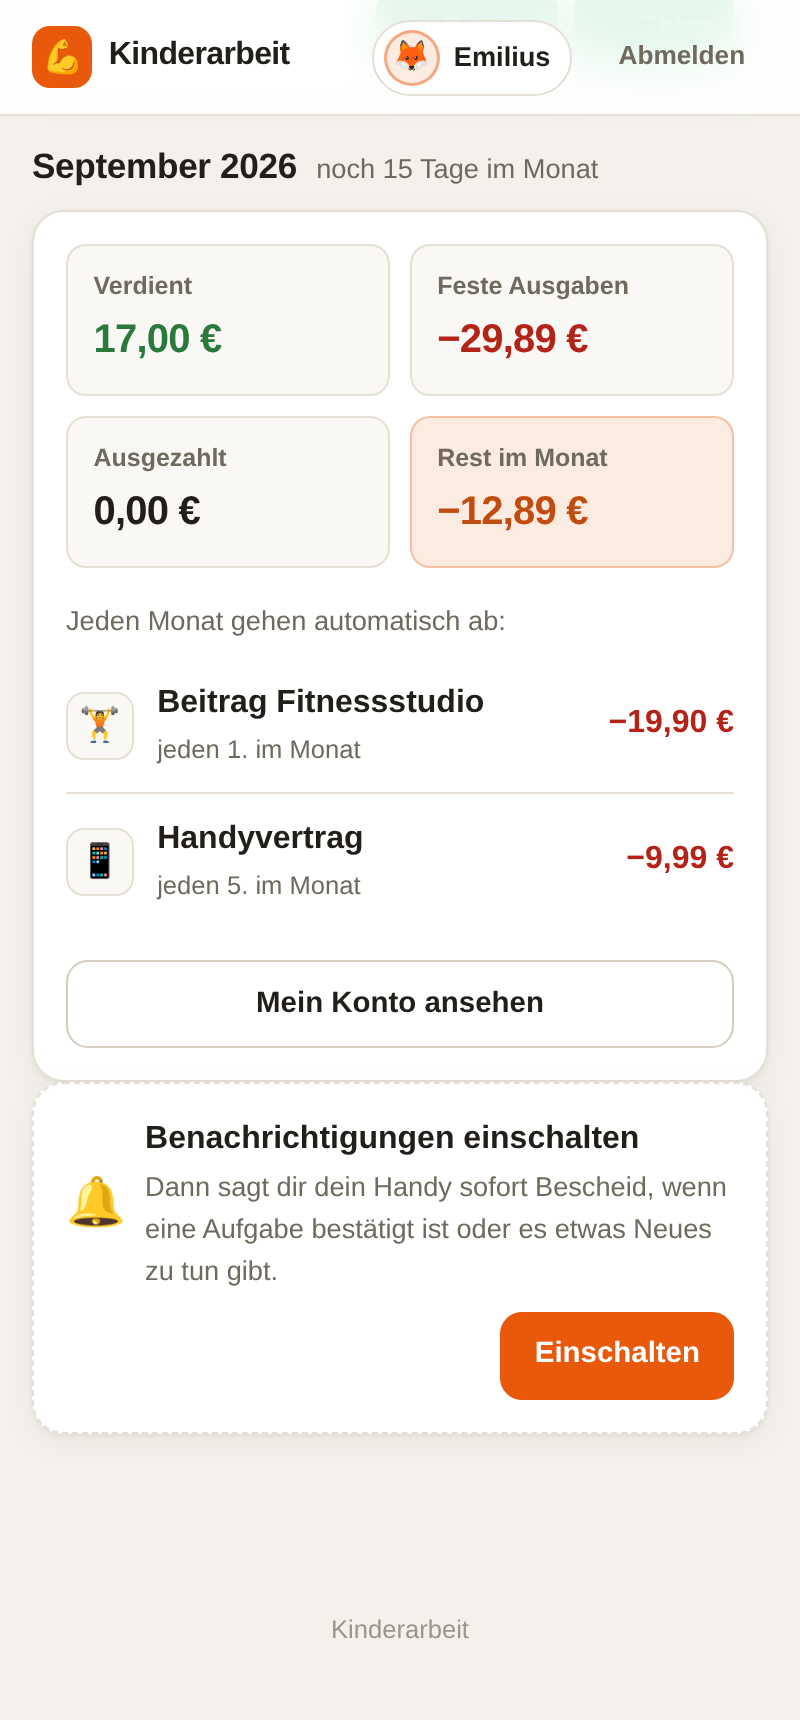
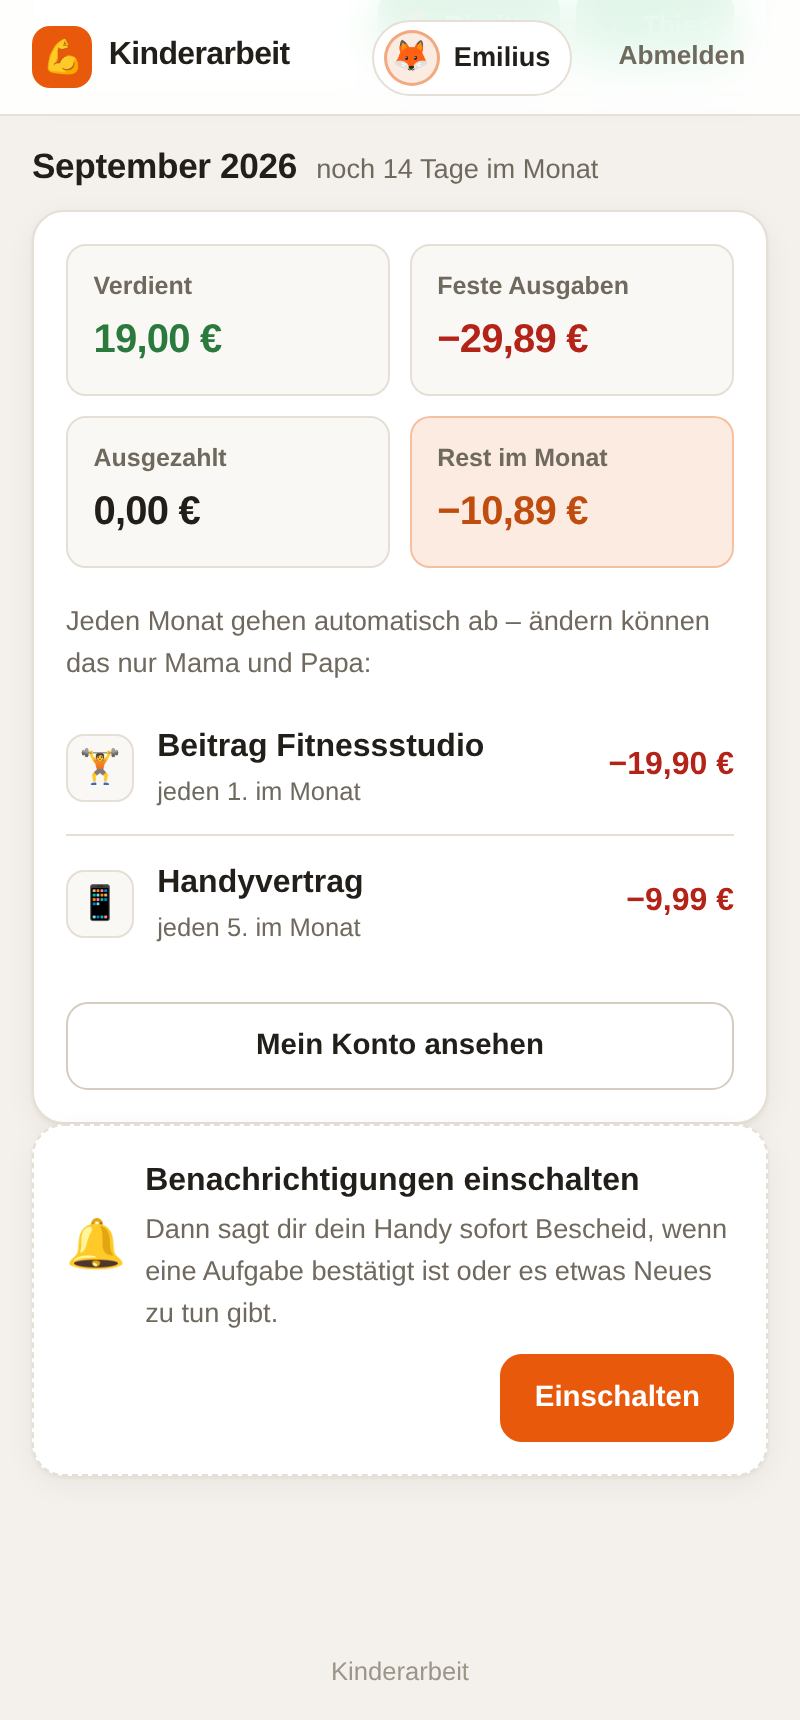
Kinder sehen ihre festen Ausgaben, ohne sie ändern zu können
Auf der Startseite standen sie schon, auf "Mein Konto" aber nur als Summe in
einer Kachel - und genau dort schaut man nach, wofür das Geld weggeht. Jetzt
steht dort ein eigener Abschnitt mit Symbol, Titel, Buchungstag und Betrag,
dazu die Monatssumme. Ändern lässt sich nichts; ein Satz sagt, dass das nur
Mama und Papa können.

Dabei fiel auf, dass beim Auflisten der Endmonat gar nicht beachtet wurde:
Expenses::all(..., true) und monthlyTotal(s) filterten nur auf is_active. Eine
ausgelaufene Ausgabe stand damit beim Kind weiter als laufende Belastung da,
obwohl Billing::dueMonths() sie längst nicht mehr abbucht - und sie ging auch
in die Monatssumme der Eltern ein. Beides zählt jetzt nur noch, was wirklich
läuft. Die Eltern sehen unter "Ausgaben" weiterhin alles, denn sie verwalten es.

Eine Ausgabe, die erst später beginnt, steht mit "erst ab ..." in der Liste und
zählt noch nicht zur Summe - sonst behauptete die Zahl mehr, als diesen Monat
stimmt.

Geprüft: sieben neue Selbsttests für laufend/ausgelaufen/künftig, dazu ein
Ablauftest über HTTP, der als Kind auf ausgabe-save und ausgabe-aktion schießt
und nachweist, dass sich nichts ändert. Die Bilder der README sind neu
aufgenommen.

diff --git a/app/Repo/Expenses.php b/app/Repo/Expenses.php
@@ -21,7 +21,15 @@ final class Expenses
         return $stmt->fetch() ?: null;
     }
 
-    public static function all(?int $childId = null, bool $onlyActive = false): array
+    /**
+     * Feste Ausgaben auflisten.
+     *
+     * $onlyRunning laesst weg, was zurzeit nicht mehr laeuft: pausierte und
+     * solche, deren Endmonat vorbei ist. Ohne die zweite Bedingung stuende
+     * eine ausgelaufene Ausgabe beim Kind weiter als laufende Belastung da -
+     * Billing::run() bucht sie laengst nicht mehr ab.
+     */
+    public static function all(?int $childId = null, bool $onlyRunning = false): array
     {
         $sql = 'SELECT e.*, u.name AS child_name, u.emoji AS child_emoji, u.color AS child_color
                   FROM expenses e
@@ -33,8 +41,9 @@ final class Expenses
             $sql .= ' AND e.child_id = :child';
             $params['child'] = $childId;
         }
-        if ($onlyActive) {
-            $sql .= ' AND e.is_active = 1';
+        if ($onlyRunning) {
+            $sql .= ' AND e.is_active = 1 AND (e.end_month IS NULL OR e.end_month >= :monat)';
+            $params['monat'] = current_month();
         }
         $sql .= ' ORDER BY e.is_active DESC, u.sort_order, e.day_of_month, e.title';
 
@@ -43,23 +52,29 @@ final class Expenses
         return $stmt->fetchAll();
     }
 
-    /** Summe der aktiven monatlichen Ausgaben eines Kindes. */
+    /** Summe der monatlichen Belastung eines Kindes - nur was noch laeuft. */
     public static function monthlyTotal(int $childId): int
     {
         $stmt = Database::pdo()->prepare(
-            'SELECT COALESCE(SUM(amount_cents), 0) FROM expenses WHERE child_id = :child AND is_active = 1'
+            'SELECT COALESCE(SUM(amount_cents), 0) FROM expenses
+              WHERE child_id = :child AND is_active = 1
+                AND (end_month IS NULL OR end_month >= :monat)'
         );
-        $stmt->execute(['child' => $childId]);
+        $stmt->execute(['child' => $childId, 'monat' => current_month()]);
         return (int)$stmt->fetchColumn();
     }
 
     /** Monatliche Belastung aller Kinder als id => Cent. */
     public static function monthlyTotals(): array
     {
-        $rows = Database::pdo()->query(
+        $stmt = Database::pdo()->prepare(
             'SELECT child_id, COALESCE(SUM(amount_cents), 0) AS total
-               FROM expenses WHERE is_active = 1 GROUP BY child_id'
-        )->fetchAll();
+               FROM expenses
+              WHERE is_active = 1 AND (end_month IS NULL OR end_month >= :monat)
+              GROUP BY child_id'
+        );
+        $stmt->execute(['monat' => current_month()]);
+        $rows = $stmt->fetchAll();
 
         $totals = [];
         foreach ($rows as $row) {

diff --git a/bin/selftest.php b/bin/selftest.php
@@ -143,6 +143,51 @@ check(
 
 Expenses::setActive($expenseId, false);
 check('Pausierte Ausgabe bucht nicht', Billing::run(true), 0);
+check('Pausierte zaehlt nicht mehr mit', Expenses::monthlyTotal($childId), 0);
+Expenses::setActive($expenseId, true);
+
+echo "\nWas die Kinder als laufend sehen\n";
+
+// Billing::run() hoert beim Endmonat auf. Was die Kinder angezeigt bekommen,
+// muss dasselbe sagen - sonst stuende dort eine Belastung, die es nicht gibt.
+$laufend = static fn (): array => array_column(Expenses::all($childId, true), 'title');
+
+$abgelaufen = Expenses::create([
+    'child_id'     => $childId,
+    'title'        => 'Schwimmkurs',
+    'amount_cents' => 800,
+    'day_of_month' => 10,
+    'start_month'  => month_shift(current_month(), -4),
+    'end_month'    => month_shift(current_month(), -1),
+    'created_by'   => (int)$thies['id'],
+]);
+check('Ausgelaufene taucht nicht auf',  in_array('Schwimmkurs', $laufend(), true), false);
+check('Und zaehlt nicht zur Belastung', Expenses::monthlyTotal($childId), 1990);
+check('Auch nicht in der Gesamtliste',  Expenses::monthlyTotals()[$childId] ?? 0, 1990);
+check('Die Eltern sehen sie weiterhin',
+      in_array('Schwimmkurs', array_column(Expenses::all($childId), 'title'), true), true);
+
+// Genau im Endmonat laeuft sie noch - Billing bucht diesen Monat noch ab.
+Expenses::update($abgelaufen, [
+    'child_id' => $childId, 'title' => 'Schwimmkurs', 'emoji' => '🏊',
+    'amount_cents' => 800, 'day_of_month' => 10, 'end_month' => current_month(),
+]);
+check('Im Endmonat laeuft sie noch',    in_array('Schwimmkurs', $laufend(), true), true);
+check('Und zaehlt wieder mit',          Expenses::monthlyTotal($childId), 1990 + 800);
+
+$kuenftig = Expenses::create([
+    'child_id'     => $childId,
+    'title'        => 'Reitstunde',
+    'amount_cents' => 2200,
+    'day_of_month' => 15,
+    'start_month'  => month_shift(current_month(), 1),
+    'created_by'   => (int)$thies['id'],
+]);
+check('Kuenftige steht schon in der Liste', in_array('Reitstunde', $laufend(), true), true);
+
+$pdo->prepare('DELETE FROM expenses WHERE id IN (:a, :b)')
+    ->execute(['a' => $abgelaufen, 'b' => $kuenftig]);
+Expenses::setActive($expenseId, false);
 
 echo "\nAuszahlungen und Historie\n";
 Ledger::book($childId, -300, 'Bar ausgezahlt', 'payout', 'manual', null, (int)$thies['id']);

diff --git a/app/views/child/account.php b/app/views/child/account.php
@@ -70,6 +70,57 @@ $isCurrentMonth = $month === current_month();
   </div>
 </section>
 
+<?php if ($expenses): ?>
+  <?php
+  // Nur zaehlen, was schon laeuft. Eine Ausgabe, die erst naechsten Monat
+  // beginnt, steht in der Liste - aber sie geht diesen Monat noch nicht ab,
+  // und die Summe soll nicht mehr behaupten, als stimmt.
+  $monatlich = 0;
+  foreach ($expenses as $expense) {
+      if ($expense['start_month'] <= current_month()) {
+          $monatlich += (int)$expense['amount_cents'];
+      }
+  }
+  ?>
+  <section class="section">
+    <div class="section__head">
+      <h2>Was jeden Monat abgeht</h2>
+      <span class="section__hint">zurzeit <?= e(Money::format(-$monatlich)) ?> im Monat</span>
+    </div>
+
+    <div class="card">
+      <ul class="list">
+        <?php foreach ($expenses as $expense): ?>
+          <li>
+            <div class="entry" style="padding-left:0;padding-right:0">
+              <div class="entry__icon" aria-hidden="true"><?= e($expense['emoji']) ?></div>
+              <div class="entry__body">
+                <div class="entry__title"><?= e($expense['title']) ?></div>
+                <div class="entry__meta">
+                  jeden <?= (int)$expense['day_of_month'] ?>. im Monat<?php
+                  if ($expense['start_month'] > current_month()) {
+                      echo ' · erst ab ' . e(month_label((string)$expense['start_month']));
+                  }
+                  if (!empty($expense['end_month'])) {
+                      echo ' · noch bis ' . e(month_label((string)$expense['end_month']));
+                  }
+                  ?>
+                </div>
+              </div>
+              <div class="entry__amount value-negative"><?= e(Money::format(-(int)$expense['amount_cents'])) ?></div>
+            </div>
+          </li>
+        <?php endforeach; ?>
+      </ul>
+
+      <p class="field__hint mt-1">
+        Das wird jeden Monat automatisch abgezogen – du musst nichts tun. Ändern
+        können das nur Mama und Papa; stimmt etwas nicht, sag ihnen Bescheid.
+      </p>
+    </div>
+  </section>
+<?php endif; ?>
+
 <section class="section">
   <div class="section__head">
     <h2>Alle Buchungen</h2>

diff --git a/app/views/child/dashboard.php b/app/views/child/dashboard.php
@@ -164,7 +164,9 @@ $rest = $summary['net'];
     </div>
 
     <?php if ($expenses): ?>
-      <p class="small muted mt-2 mb-1">Jeden Monat gehen automatisch ab:</p>
+      <p class="small muted mt-2 mb-1">
+        Jeden Monat gehen automatisch ab – ändern können das nur Mama und Papa:
+      </p>
       <ul class="list">
         <?php foreach ($expenses as $expense): ?>
           <li>

diff --git a/README.md b/README.md
@@ -14,7 +14,7 @@ vollständige Historie und der Restbetrag pro Monat.
 |---|---|---|
 | Anmeldung | alle | Profil antippen und PIN eingeben – oder persönlichen Zugangslink öffnen |
 | Aufgaben | Kinder | offene Aufgaben sehen und als erledigt melden |
-| Mein Konto | Kinder | Guthaben, Monatsübersicht, alle Buchungen |
+| Mein Konto | Kinder | Guthaben, Monatsübersicht, laufende feste Ausgaben, alle Buchungen |
 | Verlauf | Kinder | eigene Meldungen mit Status |
 | Übersicht | Eltern | **Wiedervorlage**: melden bestätigen oder ablehnen |
 | Aufgaben | Eltern | Aufgaben anlegen, Betrag festlegen, zuweisen, pausieren |
@@ -43,7 +43,7 @@ gehört ausdrücklich nicht zur Anwendung).
 | | |
 |---|---|
 | <img src="docs/bilder/03-kind-aufgaben.png" width="380"><br>**Was du machen kannst.** Oben das Guthaben, darunter alle offenen Aufgaben mit Betrag. Ein Tipp auf „Erledigt ✓“ meldet sie den Eltern – gemeldete Aufgaben sind ausgegraut und warten. | <img src="docs/bilder/04-kind-bescheid.png" width="380"><br>**Bescheid sagen.** Wartet etwas auf Bestätigung, kann das Kind Mama oder Papa mit einem Tipp per WhatsApp erinnern. Der Text ist fertig vorbereitet, abgeschickt wird von Hand. |
-| <img src="docs/bilder/05-kind-monat.png" width="380"><br>**Der Monat auf einen Blick.** Verdient, feste Ausgaben, ausgezahlt – und der **Rest im Monat**. Die vier Kacheln gehen immer auf; darunter steht, was automatisch abgeht. | <img src="docs/bilder/06-kind-konto.png" width="380"><br>**Mein Konto.** Jede einzelne Buchung, neueste zuerst, mit Datum und Herkunft. Eine zurückgenommene Bestätigung steht als eigene Gegenbuchung drin; was die Eltern nachträglich ändern, ist als „geändert“ gekennzeichnet. |
+| <img src="docs/bilder/05-kind-monat.png" width="380"><br>**Der Monat auf einen Blick.** Verdient, feste Ausgaben, ausgezahlt – und der **Rest im Monat**. Die vier Kacheln gehen immer auf; darunter steht, was automatisch abgeht. | <img src="docs/bilder/06-kind-konto.png" width="380"><br>**Mein Konto.** Oben, was jeden Monat fest abgeht – zum Nachlesen, nicht zum Ändern. Darunter jede einzelne Buchung, neueste zuerst, mit Datum und Herkunft. Eine zurückgenommene Bestätigung steht als eigene Gegenbuchung drin; was die Eltern nachträglich ändern, ist als „geändert“ gekennzeichnet. |
 | <img src="docs/bilder/07-kind-verlauf.png" width="380"><br>**Mein Verlauf.** Alle gemeldeten Aufgaben mit ihrem Stand: wartet, bestätigt oder abgelehnt – samt Uhrzeit und dem Elternteil, das entschieden hat. | <img src="docs/bilder/08-benachrichtigungen.png" width="380"><br>**Benachrichtigungen einschalten.** Pro Gerät ein Tipp. Danach meldet sich das Handy, sobald eine Aufgabe bestätigt ist oder es etwas Neues zu tun gibt – auch bei geschlossener Seite. |
 
 ### Für die Eltern
@@ -250,6 +250,15 @@ wird automatisch abgebucht. Weil auf einfachem Webhosting nicht immer ein
 Cronjob zur Verfügung steht, prüft die Anwendung das beim ersten
 Seitenaufruf des Tages und holt auch zurückliegende Monate nach.
 Ein eindeutiger Schlüssel über Ausgabe und Monat schließt Doppelbuchungen aus.
+
+**Die Kinder sehen ihre eigenen festen Ausgaben** – auf der Startseite und
+unter *Mein Konto*, mit Betrag, Buchungstag und Monatssumme. Ändern können sie
+dort nichts; anlegen, bearbeiten und pausieren bleibt bei den Eltern.
+
+Angezeigt wird nur, was wirklich noch läuft: pausierte Ausgaben und solche,
+deren Endmonat vorbei ist, fallen aus der Liste und aus der Monatssumme heraus –
+genau wie bei der automatischen Abbuchung. Eine Ausgabe, die erst später
+beginnt, steht mit „erst ab …“ dabei und zählt noch nicht mit.
 
 Ein Cronjob wird dafür **nicht gebraucht**. Wer trotzdem einen will, nutzt das
 Cronjob-Feature des Hosters – eigene `crontab`-Einträge sind bei manitu

diff --git a/CLAUDE.md b/CLAUDE.md
@@ -131,6 +131,16 @@ bei jeder Veröffentlichung.
 `is_https()` steht in `helpers.php` und nicht in der `bootstrap.php`: `base_url()`
 und die Cookies brauchen es, und die Werkzeuge in `bin/` laden nur die Helfer.
 
+**„Laufend“ heisst nicht „aktiv“.** `Expenses::all($kind, true)` und
+`monthlyTotal(s)` lassen nicht nur pausierte Ausgaben weg, sondern auch solche,
+deren `end_month` vorbei ist – genauso wie `Billing::dueMonths()` aufhört zu
+buchen. Ohne diese zweite Bedingung stünde beim Kind eine Belastung, die es
+längst nicht mehr gibt. Die Eltern sehen unter *Ausgaben* weiterhin alles,
+denn sie verwalten es.
+
+Kinder sehen ihre festen Ausgaben nur lesend (Startseite und *Mein Konto*);
+alle Routen zum Ändern liegen hinter `Auth::requireParent()`.
+
 **Routing ohne mod_rewrite.** Alles läuft über `?p=seite` in `index.php`. Links werden
 mit `url()` gebaut. Bewusst so, damit die Anwendung auf jedem Webhosting läuft.
 
